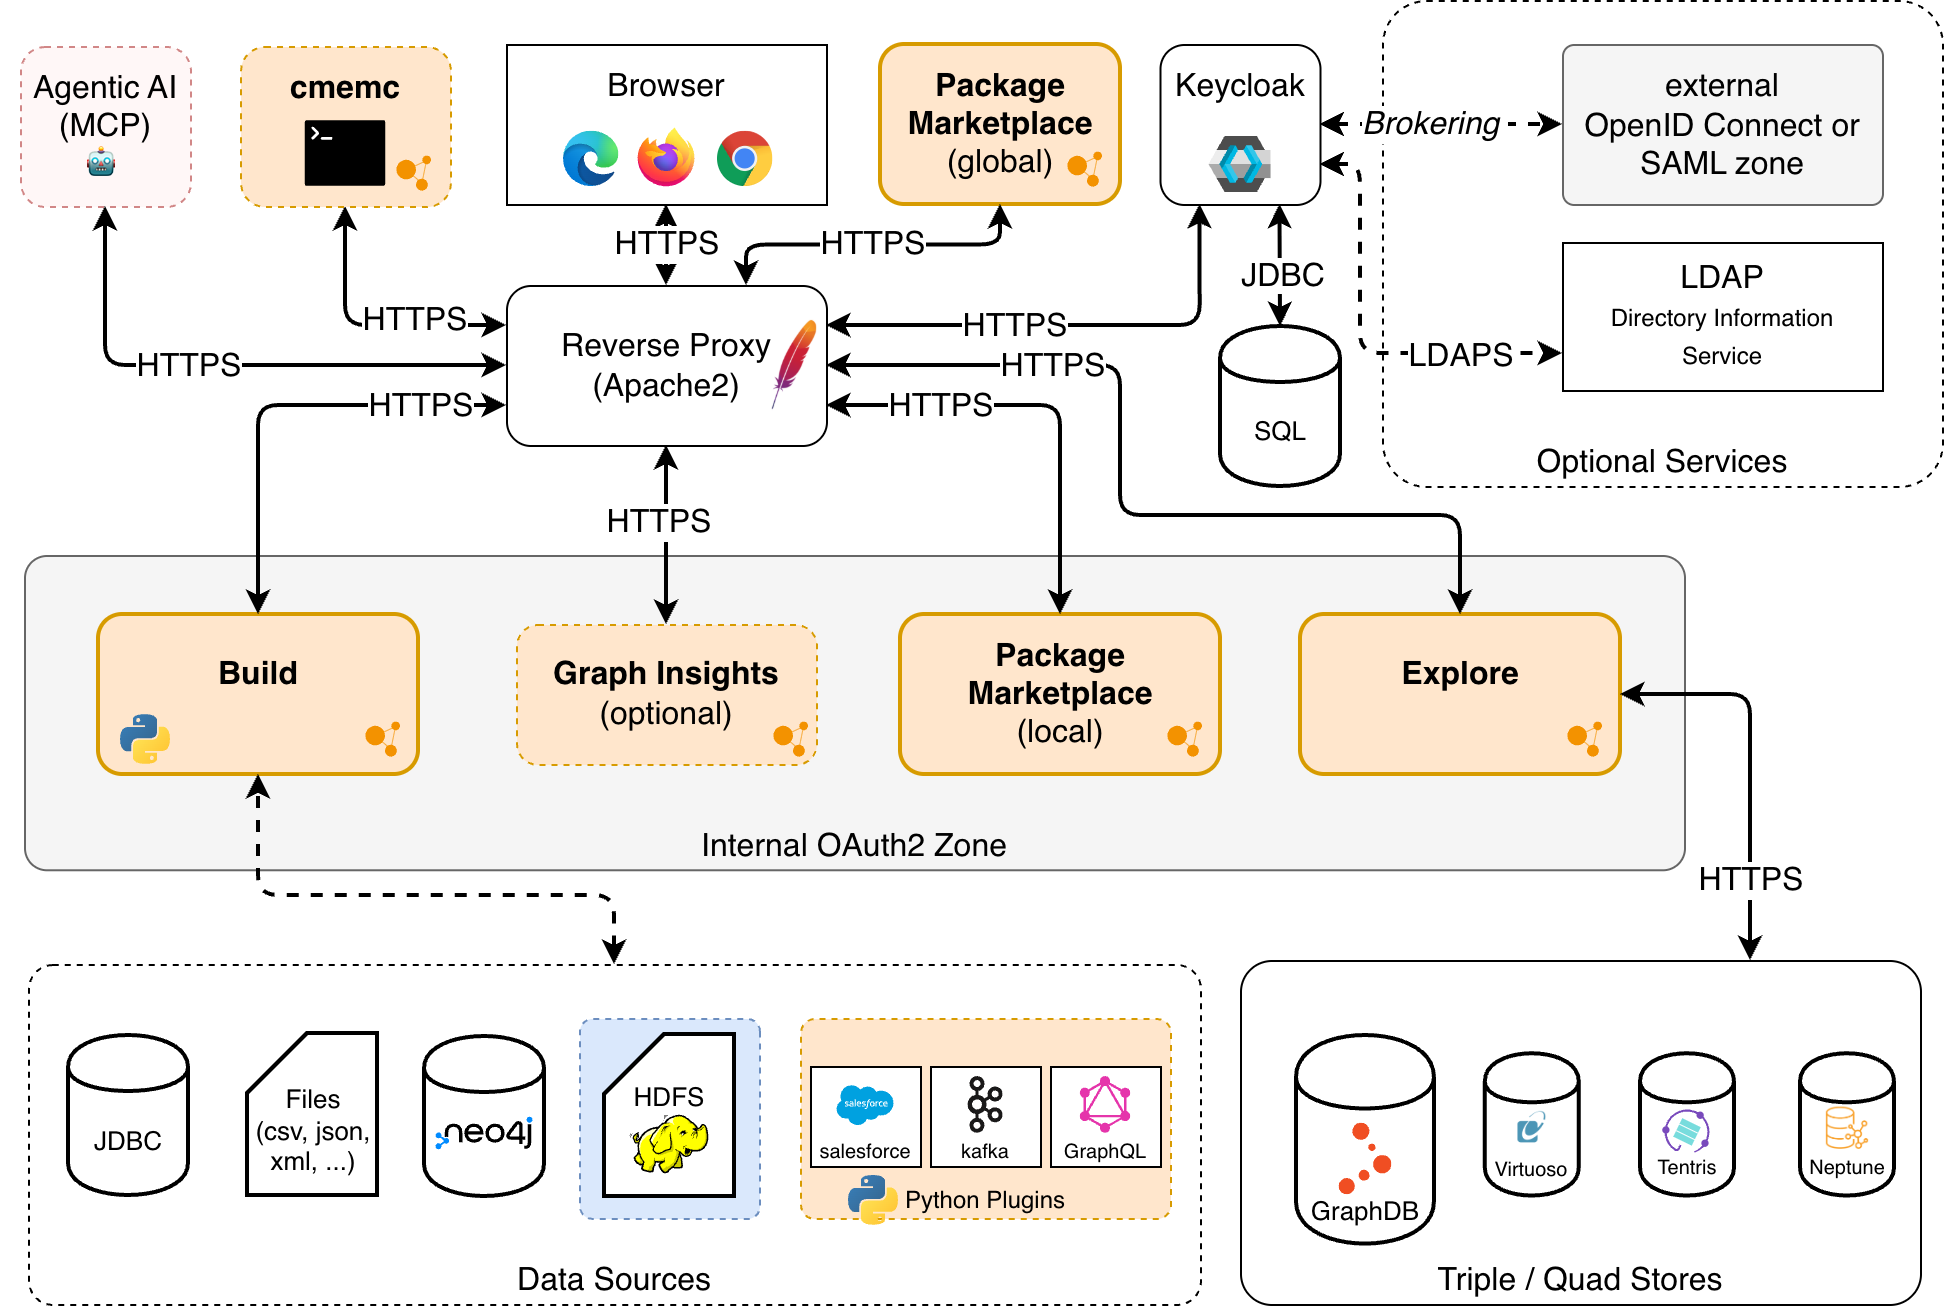
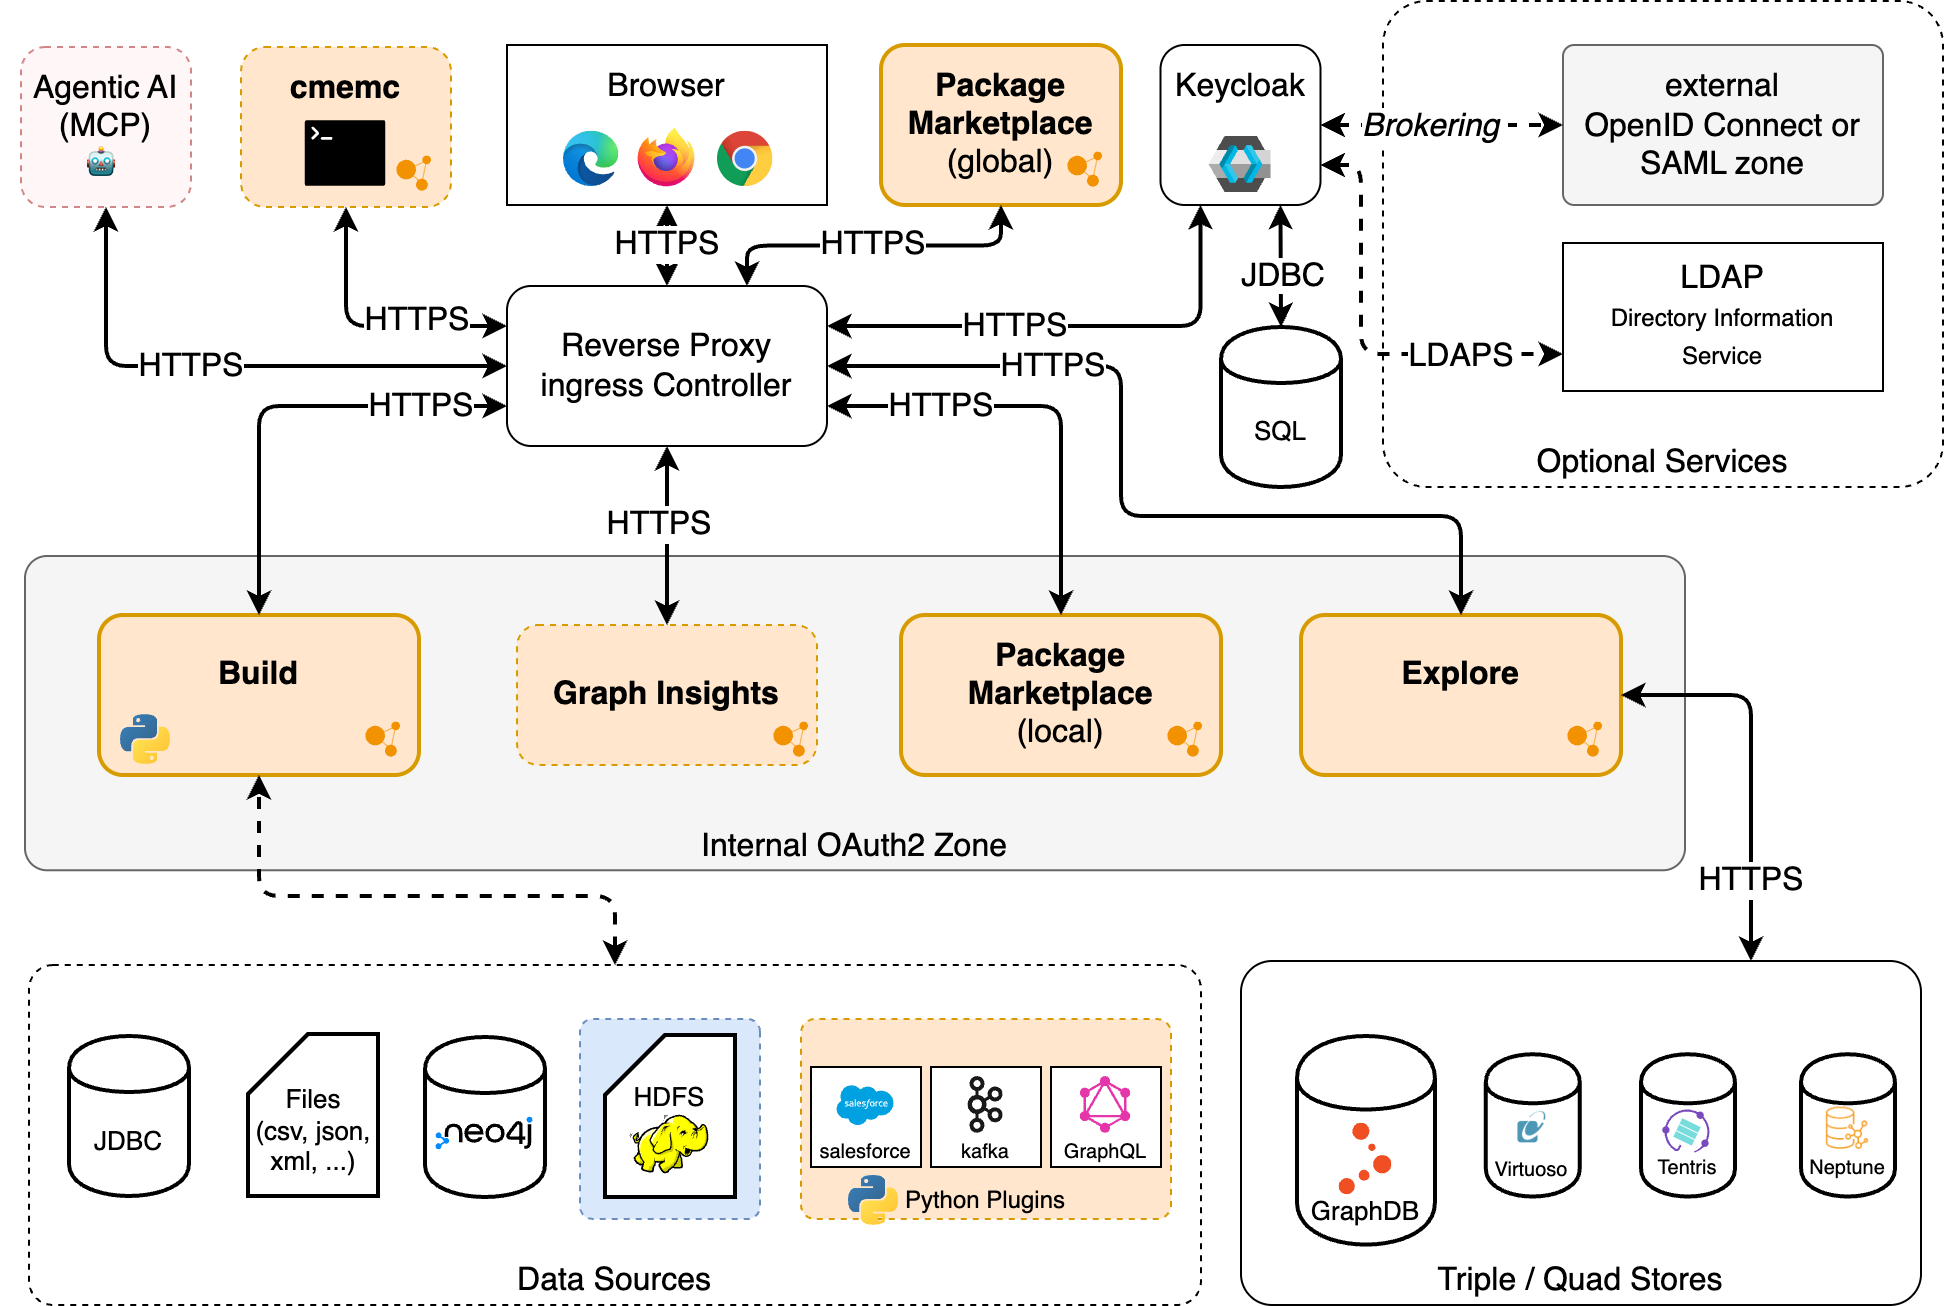
Update System Architecture

diff --git a/docs/deploy-and-configure/system-architecture/index.md b/docs/deploy-and-configure/system-architecture/index.md
@@ -11,7 +11,7 @@ hide:
 
 This page describes the overall system architecture of eccenca Corporate Memory and its components.
 
-![cmem-System-Architecture](Corporate-Memory-System-Architecture_25.3.drawio.png)
+![cmem-System-Architecture](Corporate-Memory-System-Architecture_26.2.drawio.png)
 
 eccenca Corporate Memory consists of three core components:
 